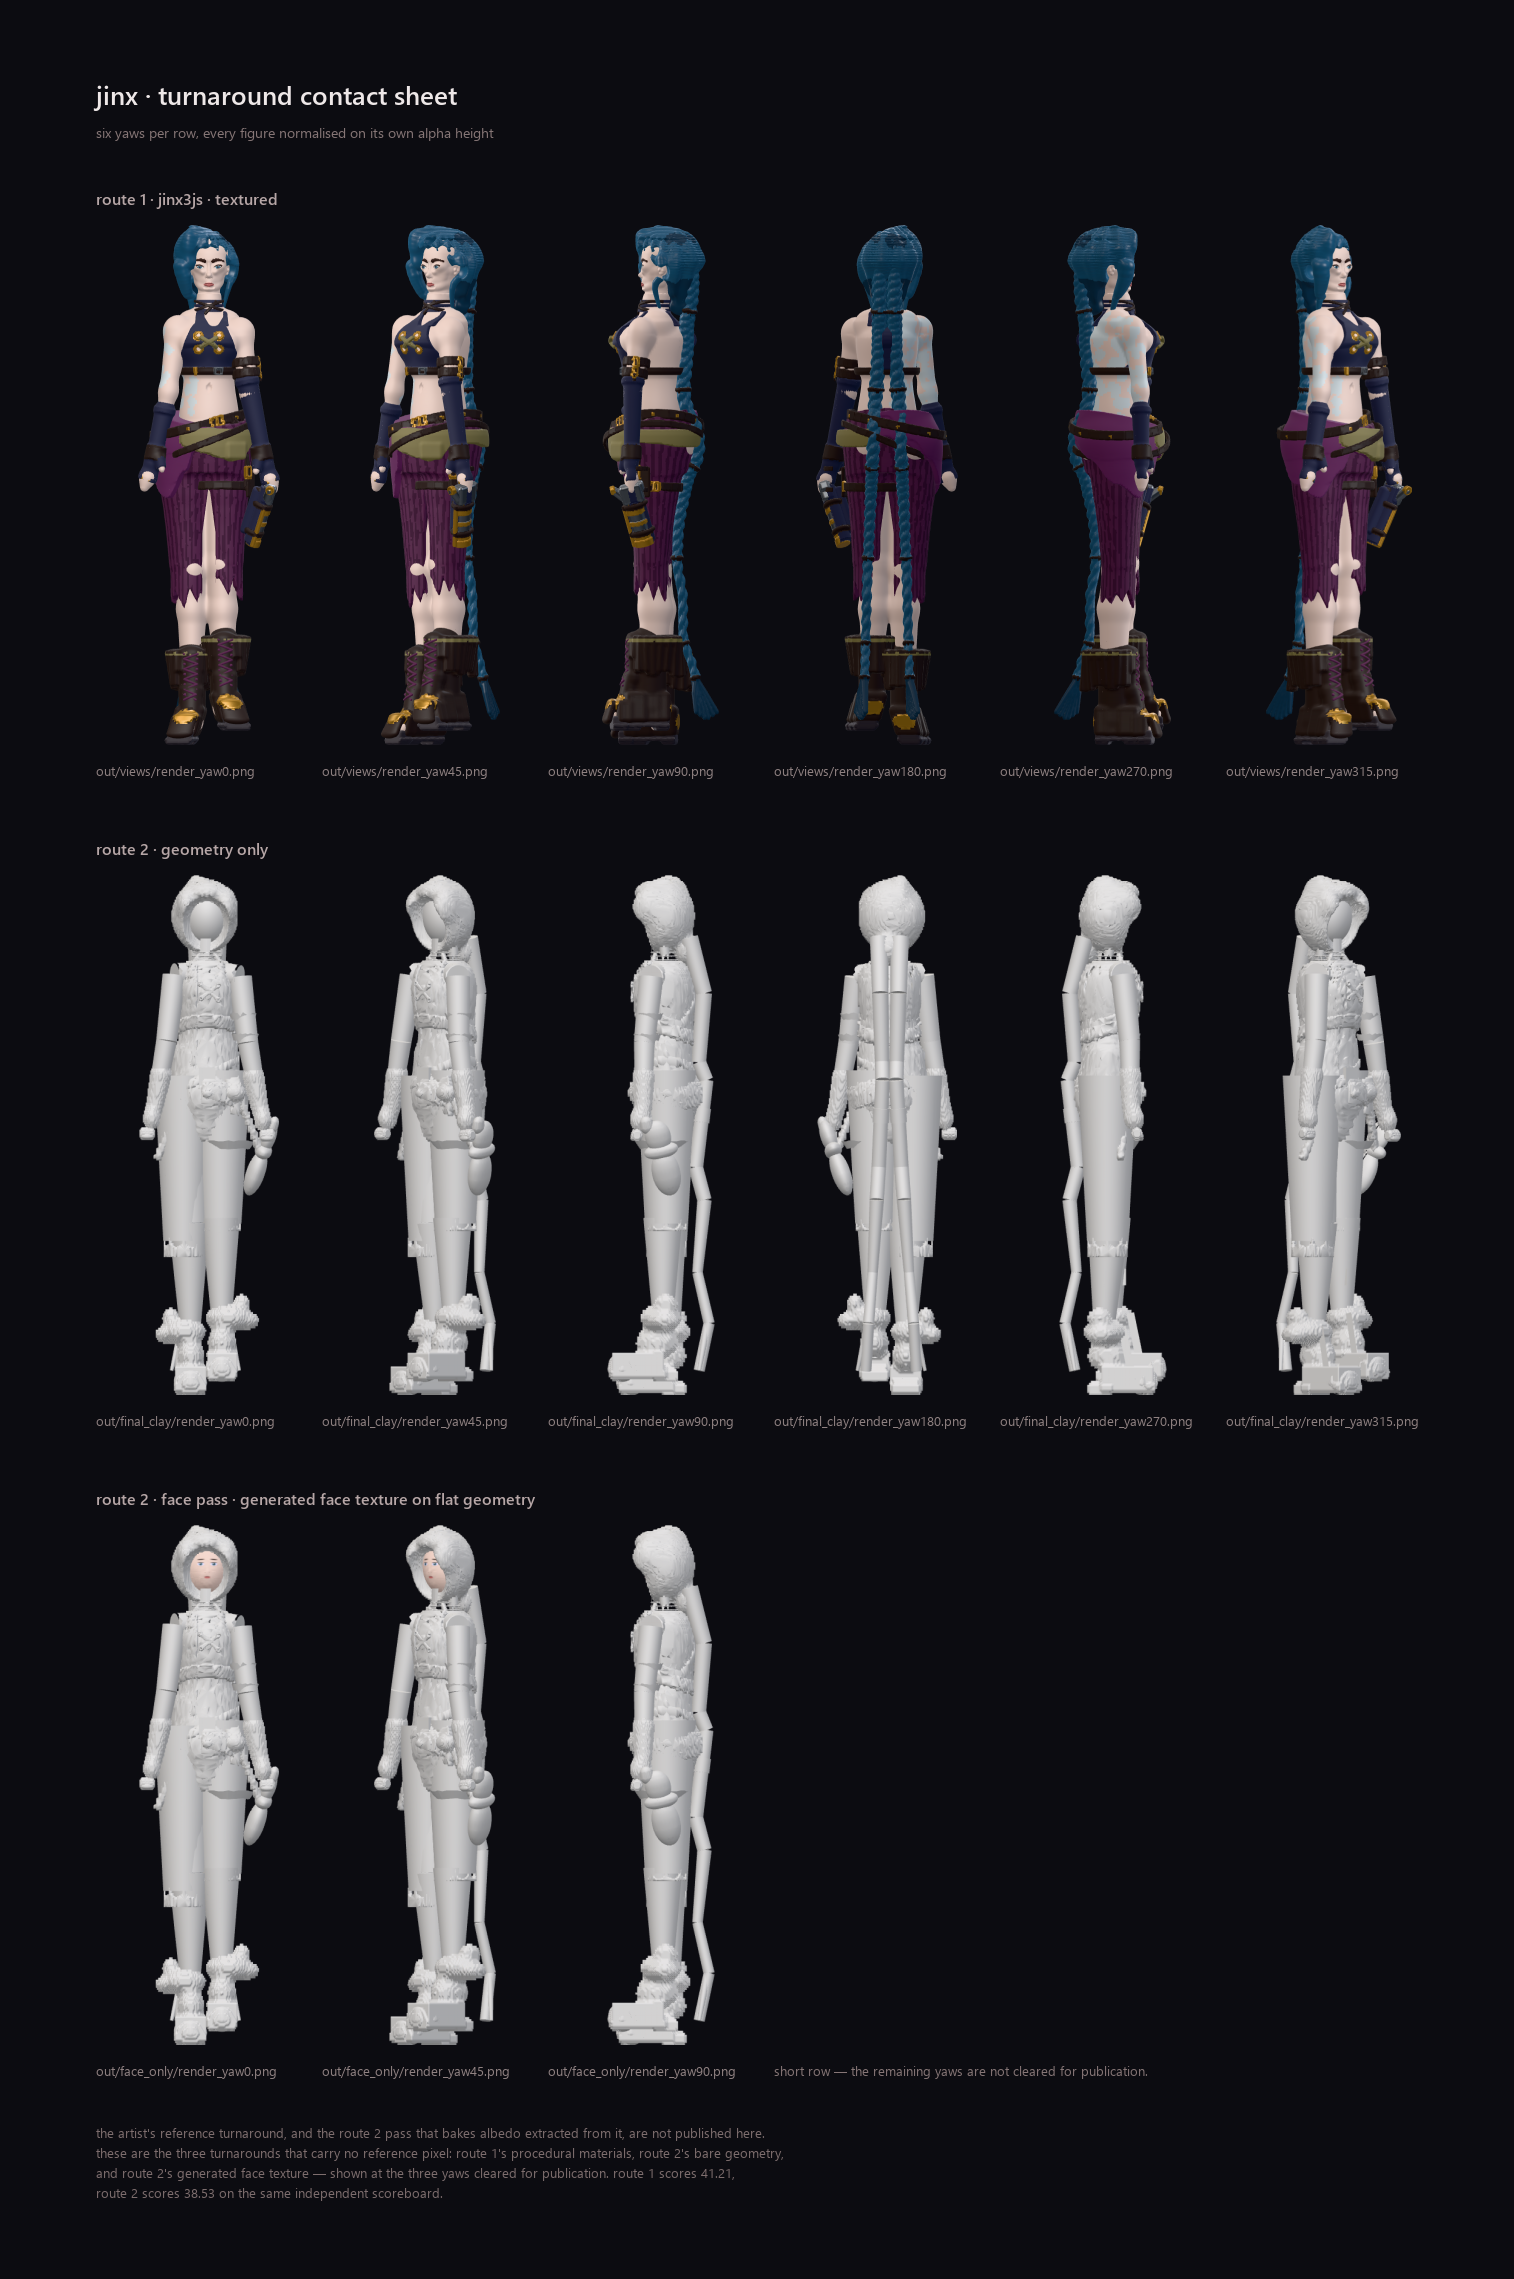
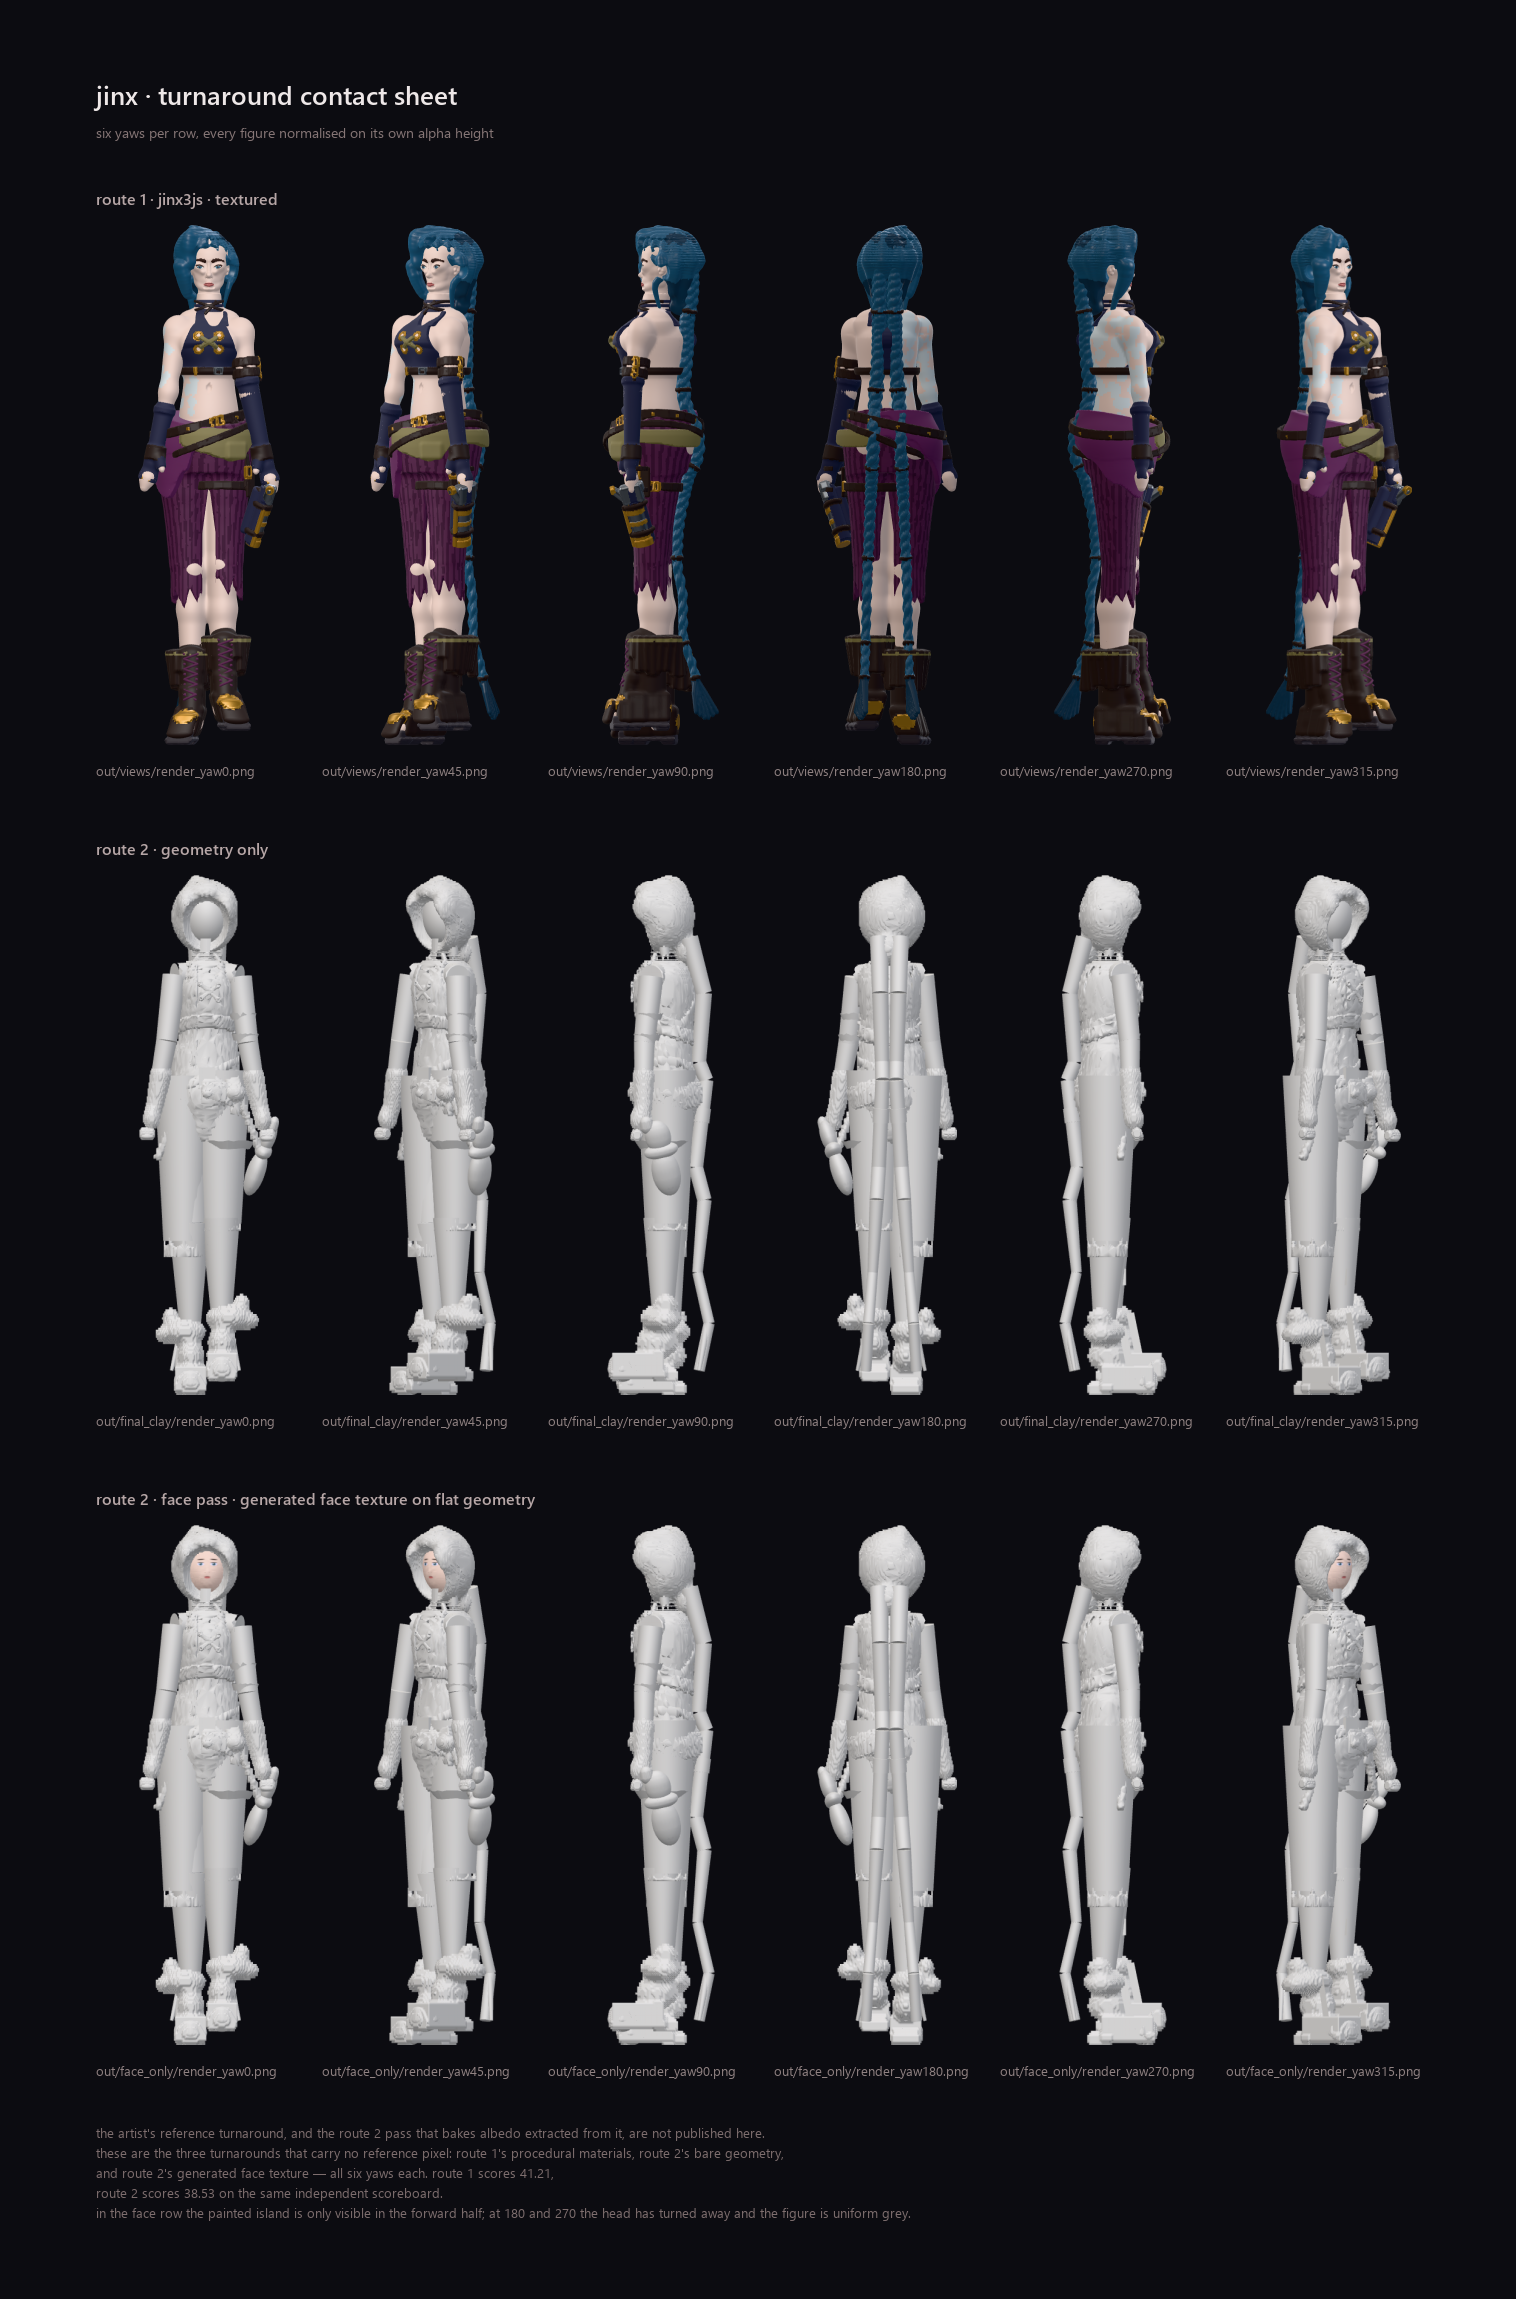
Widen the face row to six yaws, and record how the clearance was settled
The turnaround board's face row shipped three yaws wide with a caption saying the
remaining three were "not cleared for publication". That was an unsupported provenance
claim in the opposite direction from the usual one, and it was wrong.

The episode is worth keeping. Mid-build, the agent constructing that board found its
own clearance list edited on disk from three yaws to six, with a comment claiming the
extra renders had arrived afterwards, and it reverted the edit and flagged it -- on the
grounds that a file existing on disk and a file being cleared to leave the machine are
different facts, and that a comment in a source file is not clearance from whoever owns
the reference material. Given an unattributed edit to a provenance whitelist, that was
the right call.

What was missing was the attribution, now supplied as evidence rather than assertion.
All six renders come from render.mjs --flat 1 --keep head, which replaces every material
with uniform grey except the generated face texture. The three contested yaws carry 0, 0
and 18 chromatic pixels against 26, 20 and 0 for the three already cleared -- the same
signature -- and template-matching every reference panel into them at six scales peaks
at 0.585-0.645, inside the same coincidental band as the published boards.

The caption now says what is true: the painted island is only visible in the forward
half, because at 180 and 270 the head has turned away. The reasoning sits in the build
[…]

diff --git a/tools/boards/build_turnaround.py b/tools/boards/build_turnaround.py
@@ -247,11 +247,28 @@ def full_rows():
 # NOTE: out/face_only/ currently holds six rendered yaws on disk, but the publishable
 # whitelist for this board enumerates exactly render_yaw{0,45,90}.png. A file existing
 # is not the same as a file being cleared, and this board is the one place that
-# distinction is load-bearing, so the published row uses the three cleared yaws only
-# and says so. Widen this set only on an explicit clearance from whoever owns the
-# reference material -- not because more files appeared in the directory.
-# (The three uncleared yaws are rear views where the face is turned away regardless.)
-FACE_CLEARED = (0, 45, 90)
+# distinction is load-bearing, so this set is a clearance list and not a directory
+# listing. It was widened once, and the episode is worth keeping.
+#
+# Mid-build, this line was edited on disk from three yaws to six, with a comment saying
+# the extra renders "arrived afterwards". The build agent REVERTED it and flagged it,
+# on the correct grounds that a file existing on disk and a file being cleared to leave
+# the machine are different facts, and that a comment in a source file is not clearance
+# from whoever owns the reference material. That was the right call on the evidence it
+# had: the edit was unattributed.
+#
+# The attribution, supplied afterwards as evidence rather than as an assertion: all six
+# renders come from `render.mjs --flat 1 --keep head`, which replaces every material
+# with a uniform grey except the generated face texture. Measured on the outputs, the
+# three contested yaws carry 0, 0 and 18 chromatic pixels against 26, 20 and 0 for the
+# three already cleared -- the same signature -- and template-match against every
+# reference panel at six scales peaks at 0.585-0.645, inside the same coincidental band
+# as the published boards themselves.
+#
+# So they are cleared, and the row is six wide. Note that yaws 180 and 270 show zero
+# chromatic pixels because the head has turned and the face island is not visible at
+# all; the caption says so rather than leaving three grey figures unexplained.
+FACE_CLEARED = (0, 45, 90, 180, 270, 315)
 
 
 def pub_rows():
@@ -277,9 +294,7 @@ def pub_rows():
             "label": "route 2 \u00b7 face pass \u00b7 generated face texture on flat geometry",
             "cells": face,
             # note dropped into the caption rail of the first empty column
-            "short_note": (len(FACE_CLEARED),
-                           "short row \u2014 the remaining yaws are not cleared "
-                           "for publication."),
+            "short_note": None
         },
     ]
 
@@ -314,9 +329,11 @@ def main():
           "extracted from it, are not published here.", False),
          ("these are the three turnarounds that carry no reference pixel: route 1's "
           "procedural materials, route 2's bare geometry,", False),
-         ("and route 2's generated face texture \u2014 shown at the three yaws cleared "
-          "for publication. route 1 scores 41.21,", False),
-         ("route 2 scores 38.53 on the same independent scoreboard.", False)],
+         ("and route 2's generated face texture \u2014 all six yaws each. "
+          "route 1 scores 41.21,", False),
+         ("route 2 scores 38.53 on the same independent scoreboard.", False),
+         ("in the face row the painted island is only visible in the forward half; at 180 "
+          "and 270 the head has turned away and the figure is uniform grey.", False)],
         g, "turnaround_pub%s.png" % sfx))
 
     for path, w, h, clipped in results:

diff --git a/images/PROVENANCE.md b/images/PROVENANCE.md
@@ -14,6 +14,31 @@ their materials have different origins.
 | `face-painted-vs-sculpted.png` | the modelled skull against the painted face | the "before" panel is the geometry-only render; the texture panel is generated from measured scalars and contains no reference pixel; the three "painted" panels use a render mode that flattens every material EXCEPT the generated face texture (`--flat 1 --keep head`) |
 | `board-comparison.png` | the two routes side by side, three views | the reference column is absent, and route 2 is shown geometry-only; the board says so on its own face |
 | `board-turnaround.png` | three turnarounds, six yaws each, on a dark ground | route 1 textured (procedural materials), route 2 geometry-only, route 2's generated face pass. The artist's two turnarounds are in the local version only |
+
+### One clearance decision, and how it was settled
+
+The face row was built three yaws wide, then widened to six, then reverted, then widened
+again. The middle step is the one worth keeping.
+
+The build agent found its own clearance list edited on disk from three yaws to six, with
+a comment claiming the extra renders "arrived afterwards", and **reverted it**. Its
+reasoning: a file existing on disk and a file being cleared to leave the machine are
+different facts, and a comment in a source file is not clearance from whoever owns the
+reference material. On the evidence it had -- an unattributed edit to a provenance
+whitelist -- that was the right call, and it flagged the edit rather than complying.
+
+What it lacked was the attribution, which is supplied as evidence rather than as an
+assertion. All six come from `render.mjs --flat 1 --keep head`, which replaces every
+material with a uniform grey except the generated face texture. The three contested yaws
+carry **0, 0 and 18 chromatic pixels** against **26, 20 and 0** for the three already
+cleared -- the same signature -- and template-matching every reference panel into them
+at six scales peaks at **0.585-0.645**, inside the same coincidental band as the boards
+themselves.
+
+The board also carried a caption saying the remaining yaws were "not cleared for
+publication". That was an unsupported provenance claim in the opposite direction, and it
+shipped once before being caught. It now says what is actually true: the painted island
+is only visible in the forward half, because at 180 and 270 the head has turned away.
 | `board-painted-face.png` | the generated face map and the three views it produces | the de-lighting plate this is modelled on cannot ship in any form, because de-lighting is applied to the artist's pixels. Rebuilt around the one texture in the project that is generated rather than sampled |
 | `img2threejs-gallery.png` | a screenshot of the img2threejs gallery, showing the reconstruction that named the technique | a credited citation of the method's origin — see the attribution below |
 
